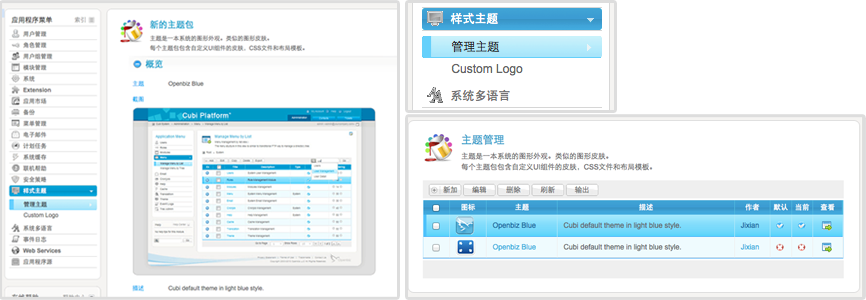
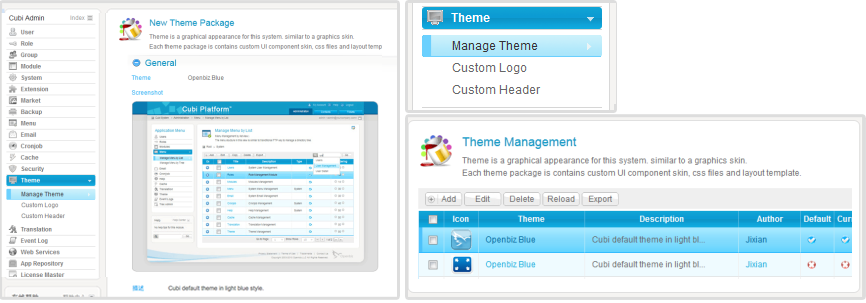
translate cubi build your brand page

Changed region(s): [[0.0, 0.03, 1.0, 1.0], [0.4677, 0.45, 0.9977, 0.9], [0.4677, 0.0, 0.9977, 0.42]]

diff --git a/docs/openbiz.en/developer/cubi/create-your-brand.php b/docs/openbiz.en/developer/cubi/create-your-brand.php
@@ -3,7 +3,7 @@
 <html xmlns="http://www.w3.org/1999/xhtml">
 <head>
 <meta http-equiv="Content-Type" content="text/html; charset=UTF-8" />
-<title>创建你的品牌 － Openbiz Cubi Platform － <?php echo SITE_NAME;?></title>
+<title>Create Your Brand - Openbiz Cubi Platform - <?php echo SITE_NAME;?></title>
 <link rel="icon" href="favicon.ico" type="image/x-icon" />
 <link rel="shortcut icon" href="favicon.ico" type="image/x-icon" /> 
 <link href="../../general/style/general.css" rel="stylesheet" type="text/css" />
@@ -35,10 +35,10 @@
 				<div class="desc">
 					<h1 style="height:auto;"><a href="cubi/"><img src="image/license/banner-title.png" title="Openbiz Cubi Platform"/></a></h1>
 					<div style="padding-left:5px;">
-					<h2 >基于Cubi创建你自己的品牌</h2>
-					<p>Openbiz Cubi友好开放的使用许可协议 <br/>允许您在其之上打造您的自有品牌</p>
+					<h2 >Use Cubi to build your brand</h2>
+					<p>Openbiz Cubi business friendly license <br/>allows to build your branded applications</p>
 					<p class="buttons">
-						<a class="blue-button-go" href="#" >免费获取</a>
+						<a class="blue-button-go" href="#" >Download</a>
 					</p>
 					</div>
 				</div>
@@ -49,39 +49,40 @@
 	
 	<div class="content">
 		<div class="page-splitter"></div>	
-		<h2>友好、开放的许可协议</h2>
+		<h2>Business-Friendly Opensource License</h2>
 		<p>
-		它的设计就是为了让您可以站在我们的肩膀上前进。Openbiz Cubi的许可协议如果系统自身一样高度开放。
-		它允许您可以合法的再其之上构建<br />您自己的商业应用程序甚至您的自有品牌的产品。无须担心法律许可问题。
+		The goal of the platform is to enable your application on top of itself. Openbiz Cubi is released with BSD opensource license. It allows you to build and pulish your own branded applications freely without worrying about legal issues. 
 		</p>
 		
 		<div class="page-splitter"></div>
-		<h2>替换您自己的Logo</h2>
-		<p>简单到只需要点几下鼠标，就把它变成专为您的设计的产品。</p>
+		<h2>User Your Own Logo</h2>
+		<p>Simply click mouse to change logos and names to your own text</p>
 		<table class="replace-logo" style="padding:0px;padding-bottom:15px;" cellspacing="0">
 			<tr >
 				<td>
-					<img src="image/license/replace-logo-step-1.png" />
-				</td>
-				<td>
-					<img src="image/license/replace-logo-step-2.png" />
-				</td>
-				<td>
-					<img src="image/license/replace-logo-step-3.png" />
+					<p>Change Login Logo <br/>
+					<img src="image/license/replace-logo-step-1.png" /></p>
+					
+					<p>Change Application Logo <br/>
+					<img src="image/license/replace-logo-step-2.png" /></p>
+					
+					<p>Change Application Name <br/>
+					<img src="image/license/replace-logo-step-3.png" /></p>
+					
 				</td>
 			</tr>			
 		</table>
 		
 		<div class="page-splitter"></div>
 		
-		<h2>设计您自己的界面主题</h2>
-		<p>简单到只需要点几下鼠标，就把它变成专为您的设计的产品。</p>
+		<h2>Set Your Own Theme</h2>
+		<p>You can rename the application by simple mouse clicks</p>
 		<img src="image/license/custom-theme.png" style="padding-bottom:15px;"/>
-		<p>为了真正要让他从内向外的改头换面，您还可以为Openbiz Cubi来定制符合您的企业形象的主题风格。例如，把整体颜色改为红色、把左右菜单的布局换个位置，甚至让他完全变个摸样（但依然保留所有高级特性）。</p>
+		<p>You can pick the theme fit for your applications. For example, you can change the color to red, change the position of menu, or make any layout change.</p>
 		
 		<div class="page-splitter"></div>
-		<h2>打造您自己的产品</h2>
-		<p>Openbiz Cubi主题风格基于标准的Smarty模板引擎构建，修改模板只需要了解HTML和Smarty的基础语法即可上手。</p>
+		<h2>Code Custom Theme</h2>
+		<p>Openbiz Cubi theme is based on standard Smarty or PHP tempalte, you can create your own theme by modifying default theme as long as your know HTML and Smarty.</p>
 		<table class="custom-theme" style="padding:0px;padding-bottom:15px;padding-top:10px;" cellspacing="0">
 			<tr >
 				<td>
@@ -104,10 +105,10 @@
 		<div class="bottom-info-block">
 			<table>
 				<tr>
-					<td><a class="blue-button-go" href="#" >免费获取</a></td>
+					<td><a class="blue-button-go" href="#" >Download</a></td>
 					<td><p>
-						Openbiz Cubi友好开放的使用许可协议允许您在其之上打造您的自有品牌。<br/>
-						赶快下载Openbiz Cubi，专为企业级应用开发而设计。</p>
+						Download Openbiz Cubi today to build your branded applications.<br/>
+						</p>
 					</td>
 				</tr>
 			</table>

diff --git a/docs/openbiz.en/general/_include/_site-header.php b/docs/openbiz.en/general/_include/_site-header.php
@@ -12,7 +12,7 @@
 					<li><a class="developer"		href="/developer">面向研发人员</a></li>				
 					<li><a class="hardware"			href="/hardware">扩展设备</a></li>
 					<li><a class="certification"	href="/certification">认证培训</a></li>	-->
-					<li><a class="cubi"				href="/cubi.php">Openbiz Cubi</a></li>	
+					<li><a class="cubi"		href="/cubi">Openbiz Cubi</a></li>	
 					<li><a class="framework"		href="/framework.php">The Framework</a></li>
 					<li><a class="document"			href="/document">Document</a></li>
 					<li><a class="extension"		href="/extension">Extensions</a></li>

diff --git a/docs/openbiz.en/developer/cubi/index.php b/docs/openbiz.en/developer/cubi/index.php
@@ -3,7 +3,7 @@
 <html xmlns="http://www.w3.org/1999/xhtml">
 <head>
 <meta http-equiv="Content-Type" content="text/html; charset=UTF-8" />
-<title>System Overview － Openbiz Cubi Platform － <?php echo SITE_NAME;?></title>
+<title>System Overview - Openbiz Cubi Platform - <?php echo SITE_NAME;?></title>
 <link rel="icon" href="favicon.ico" type="image/x-icon" />
 <link rel="shortcut icon" href="favicon.ico" type="image/x-icon" /> 
 <link href="../../general/style/general.css" rel="stylesheet" type="text/css" />

diff --git a/docs/openbiz.en/developer/cubi/rich-modules.php b/docs/openbiz.en/developer/cubi/rich-modules.php
@@ -3,7 +3,7 @@
 <html xmlns="http://www.w3.org/1999/xhtml">
 <head>
 <meta http-equiv="Content-Type" content="text/html; charset=UTF-8" />
-<title>Rich Components － Openbiz Cubi Platform － <?php echo SITE_NAME;?></title>
+<title>Rich Components - Openbiz Cubi Platform - <?php echo SITE_NAME;?></title>
 <link rel="icon" href="favicon.ico" type="image/x-icon" />
 <link rel="shortcut icon" href="favicon.ico" type="image/x-icon" /> 
 <link href="../../general/style/general.css" rel="stylesheet" type="text/css" />

diff --git a/docs/openbiz.en/developer/cubi/screenshot.php b/docs/openbiz.en/developer/cubi/screenshot.php
@@ -3,7 +3,7 @@
 <html xmlns="http://www.w3.org/1999/xhtml">
 <head>
 <meta http-equiv="Content-Type" content="text/html; charset=UTF-8" />
-<title>Quality UI － Openbiz Cubi Platform － <?php echo SITE_NAME;?></title>
+<title>Quality UI - Openbiz Cubi Platform - <?php echo SITE_NAME;?></title>
 <link rel="icon" href="favicon.ico" type="image/x-icon" />
 <link rel="shortcut icon" href="favicon.ico" type="image/x-icon" /> 
 <link href="../../general/style/general.css" rel="stylesheet" type="text/css" />
